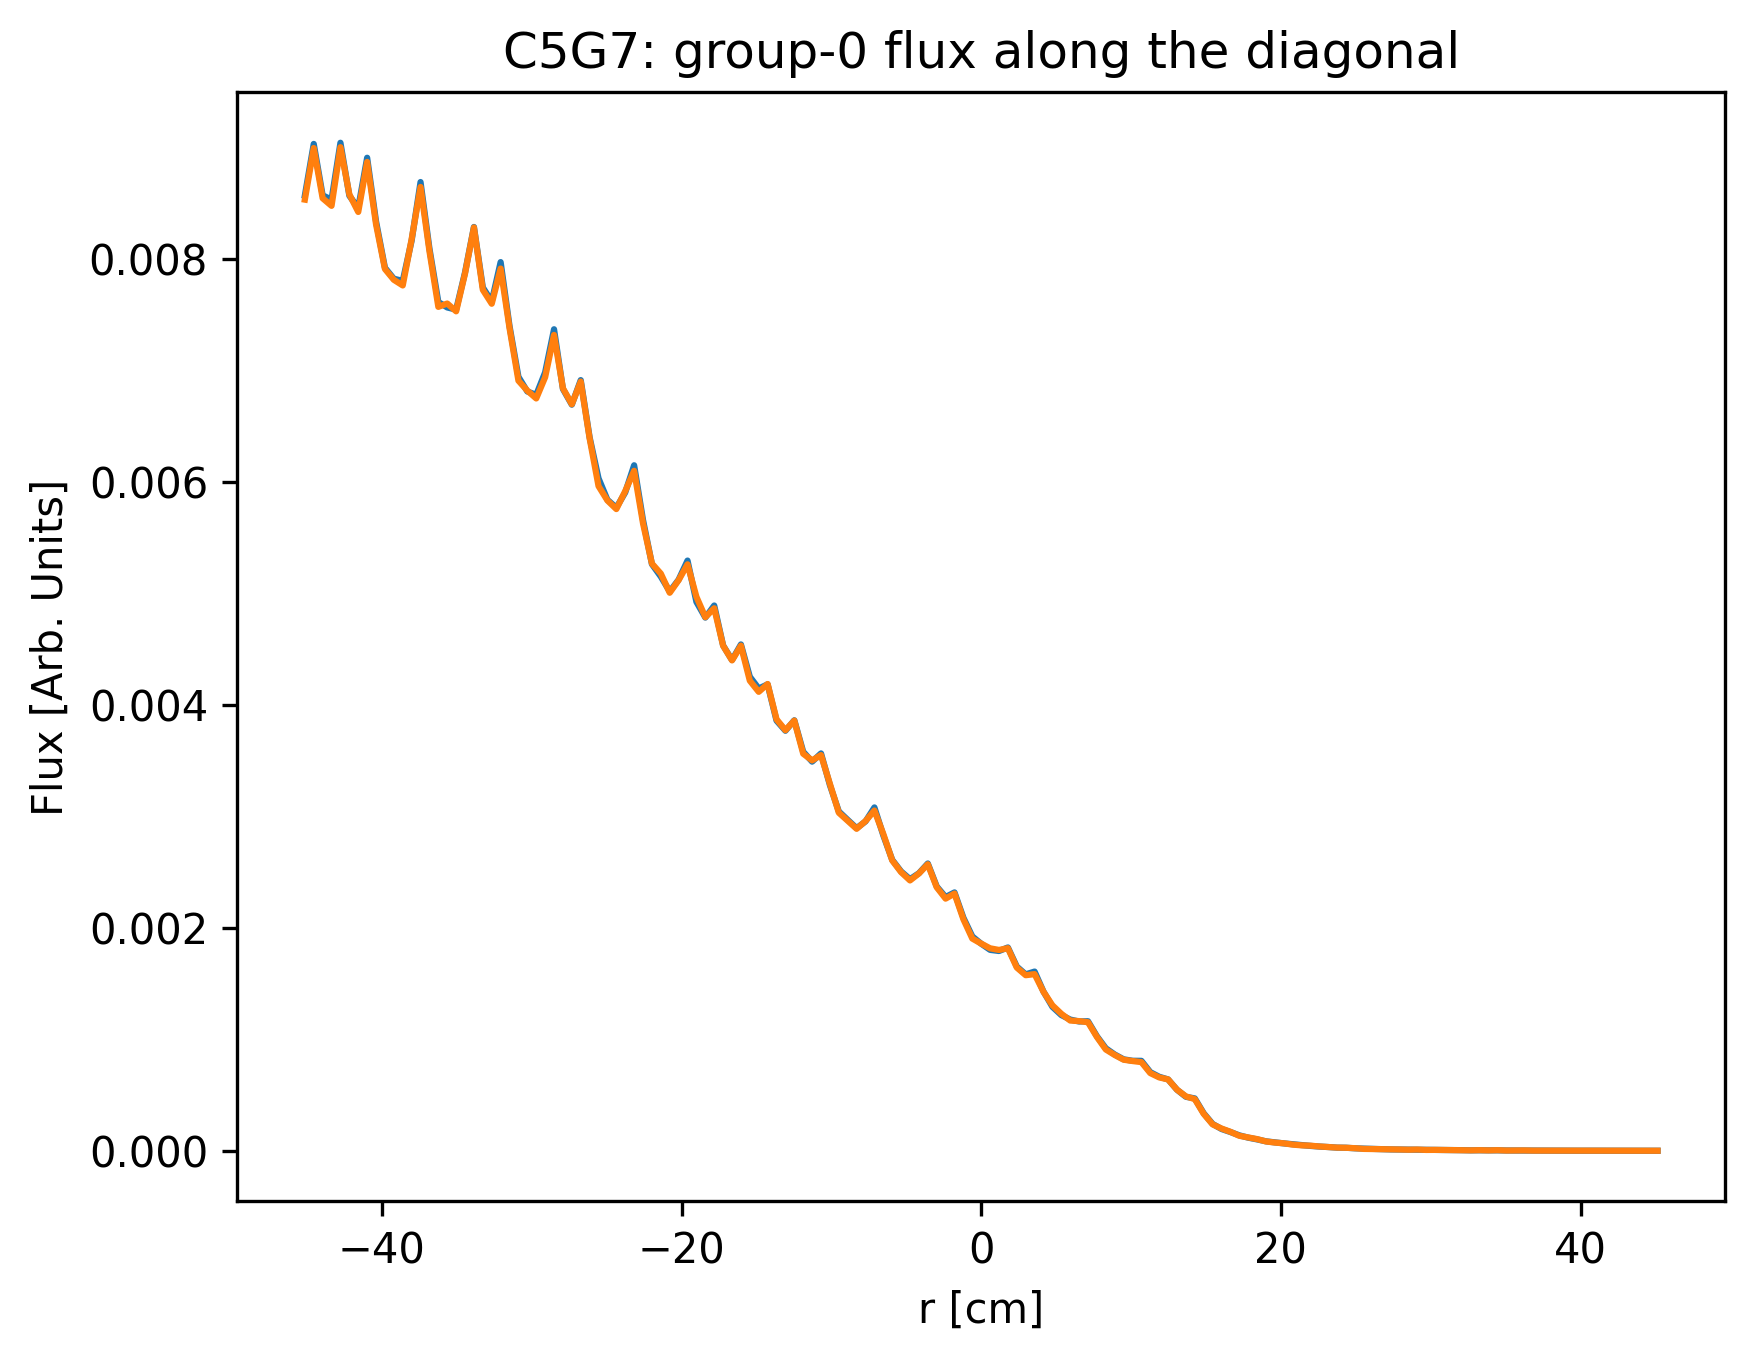
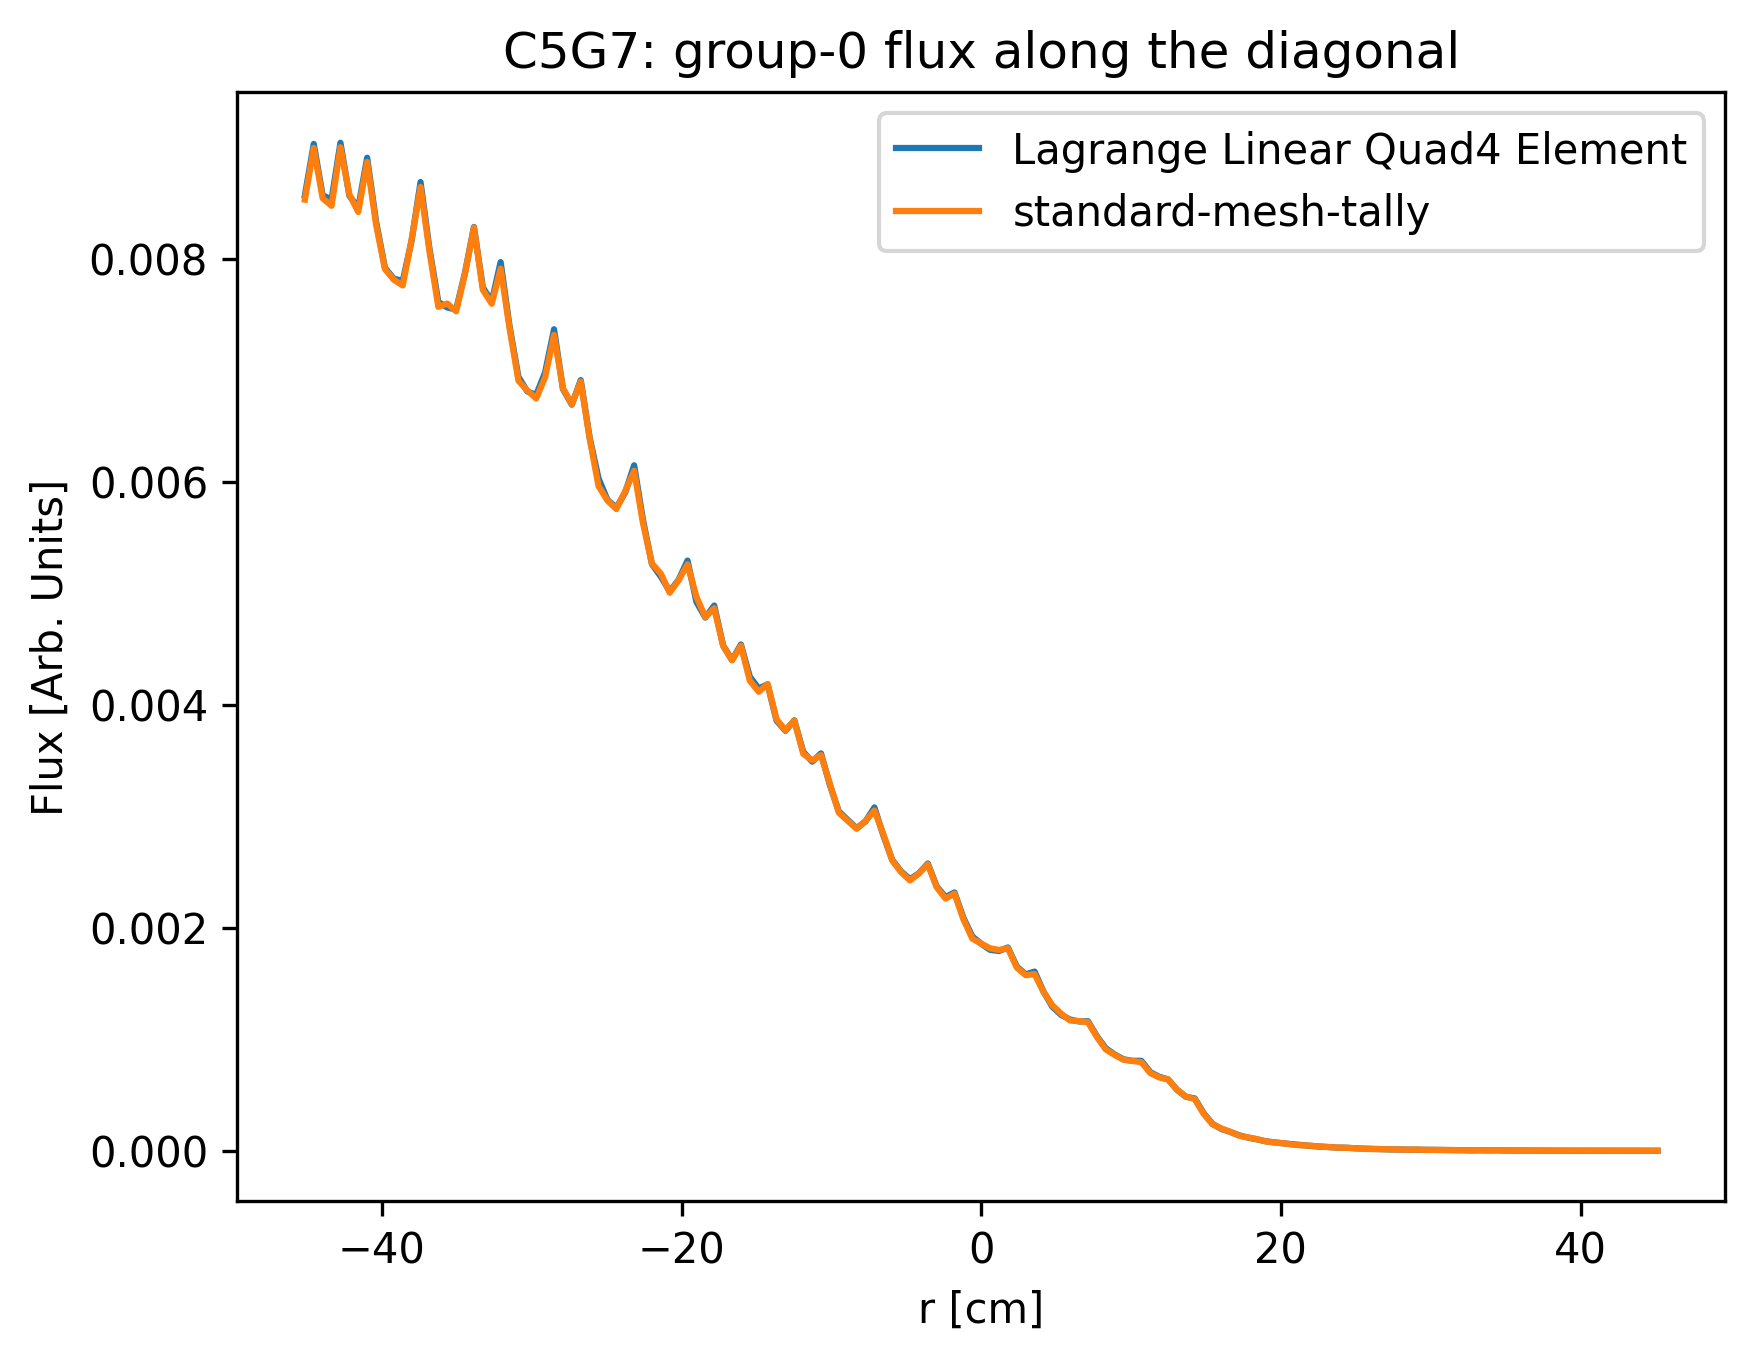
rerun the post process

Changed region(s): [[0.4923, 0.0926, 0.9846, 0.1852], [0.9538, 0.1543, 0.9846, 0.1852]]

diff --git a/test_run_case/slab_vacuum_bc/result_analysis.py b/test_run_case/slab_vacuum_bc/result_analysis.py
@@ -219,13 +219,13 @@ for iy in range(0, len(fine_mesh_y)):
 
 index_y = 0
 
+plt.plot(fine_mesh_x, linear_lagrange_reconstruct[:, index_y], label = "Lagrange-Linear quad4 50bins", marker = "o")
 plt.plot(fine_mesh_x, fine_mesh_tally_avg[:], label = "mesh-tally")
-plt.plot(fine_mesh_x, linear_lagrange_reconstruct[:, index_y], label = "Lagrange-Linear quad4 30bins")
 
 plt.xlabel("x [cm]")
 plt.ylabel("flux [Arb Unit]")
 plt.legend()
-plt.savefig("comparision_30bins.png", dpi = 300, bbox_inches = "tight")
+plt.savefig("comparision_50bins.png", dpi = 300, bbox_inches = "tight")
   
 
 

diff --git a/test_run_case/c5g7_2d/result_analysis.py b/test_run_case/c5g7_2d/result_analysis.py
@@ -263,6 +263,7 @@ for g in range(0, NE_group):
     plt.xlabel("r [cm]")
     plt.ylabel("Flux [Arb. Units]")
     plt.title("C5G7: group-{:} flux along the diagonal".format(g))
+    plt.legend()
     plt.savefig("plots/flux_along_diagonal_group_{:}.png".format(g), dpi = 300, bbox_inches = "tight")
       
   
